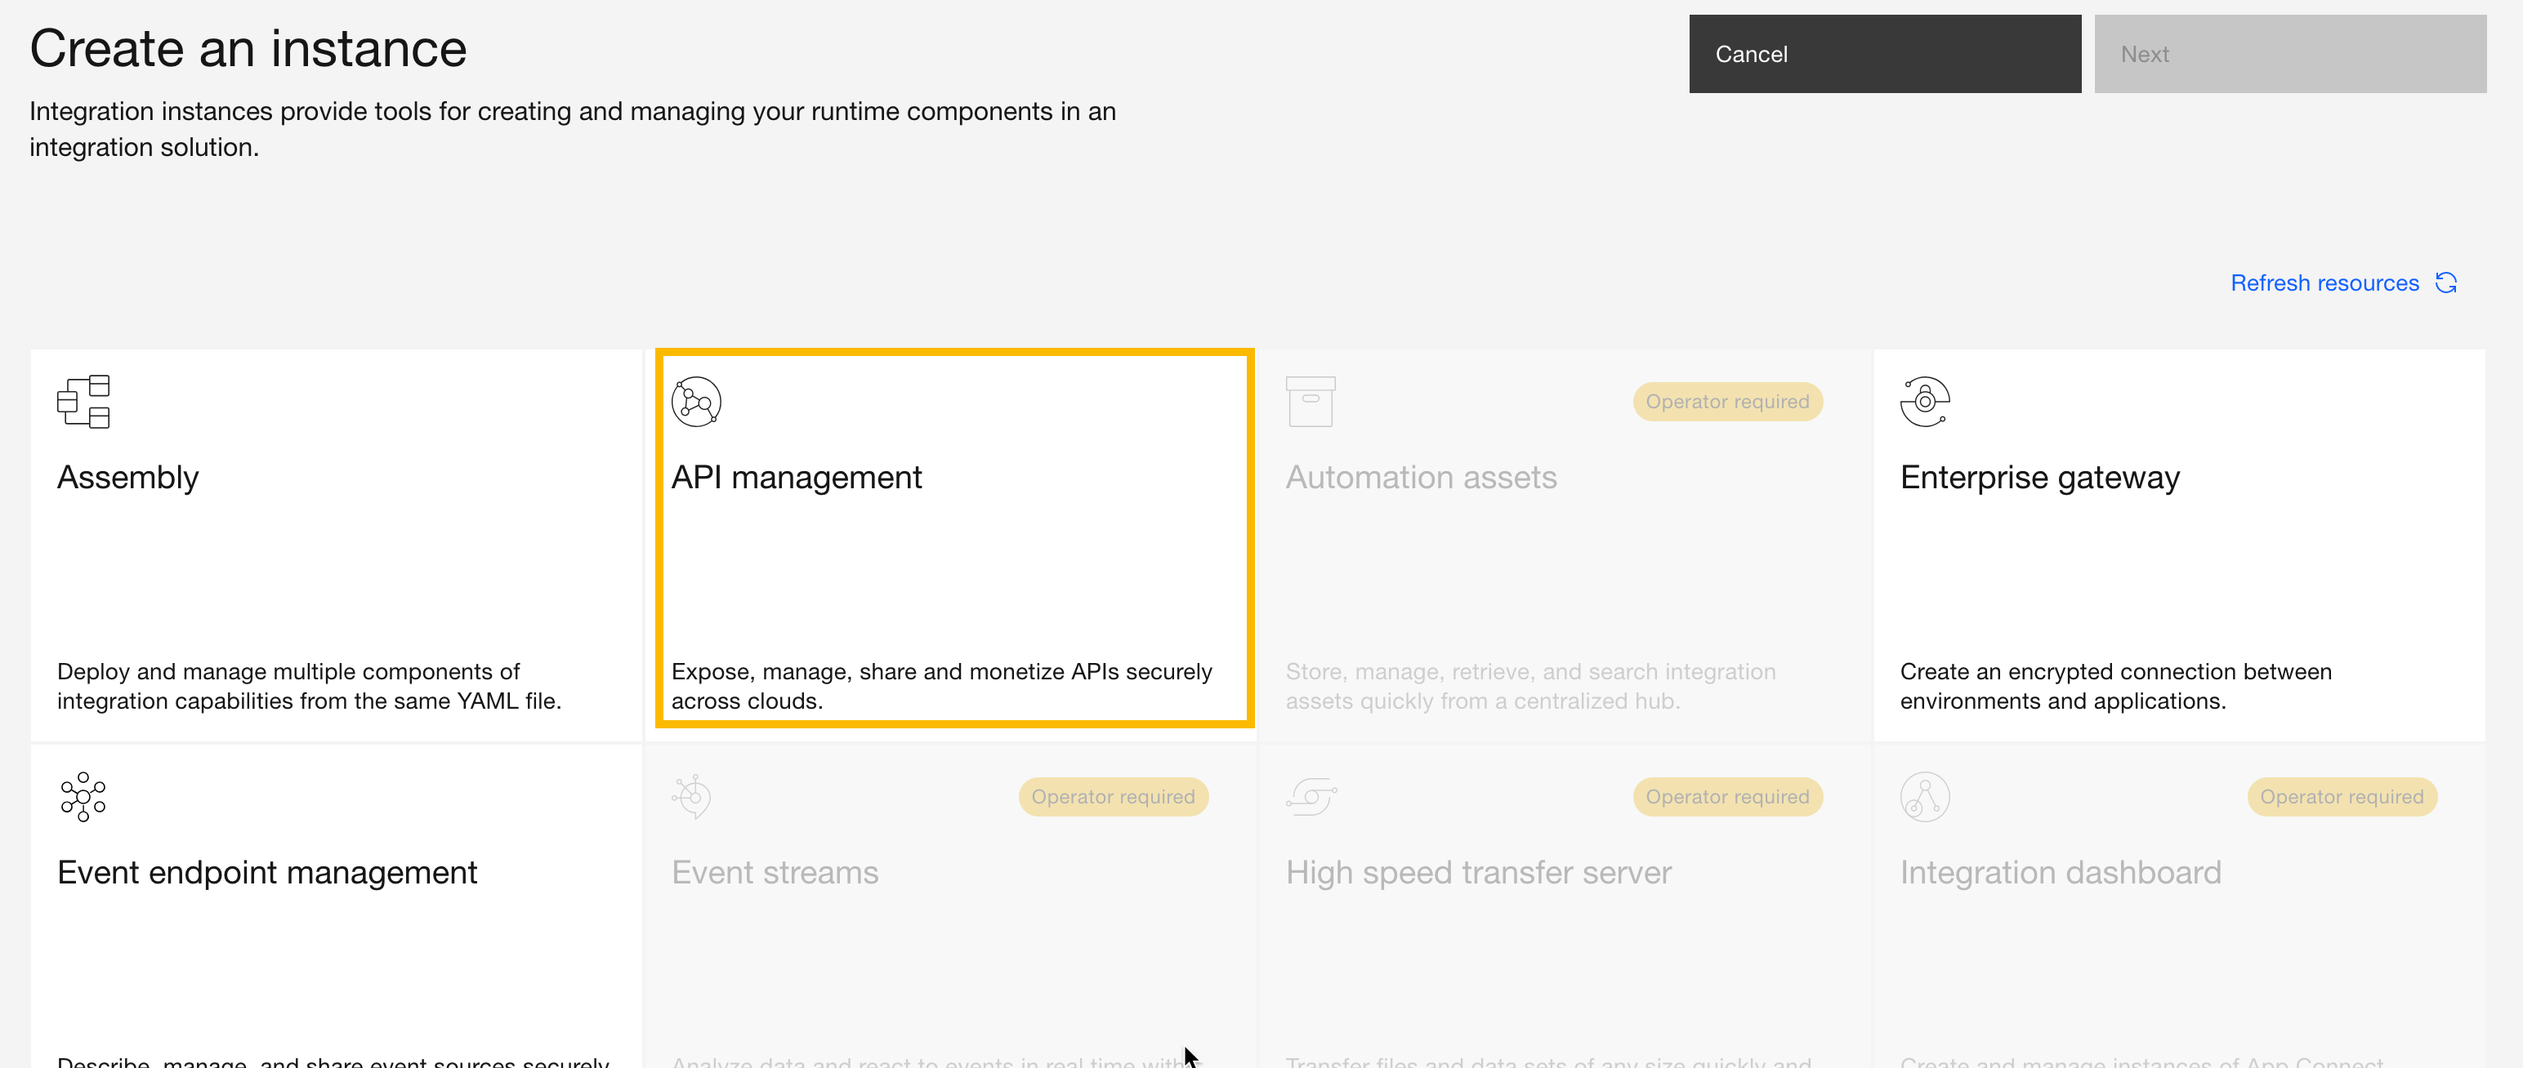
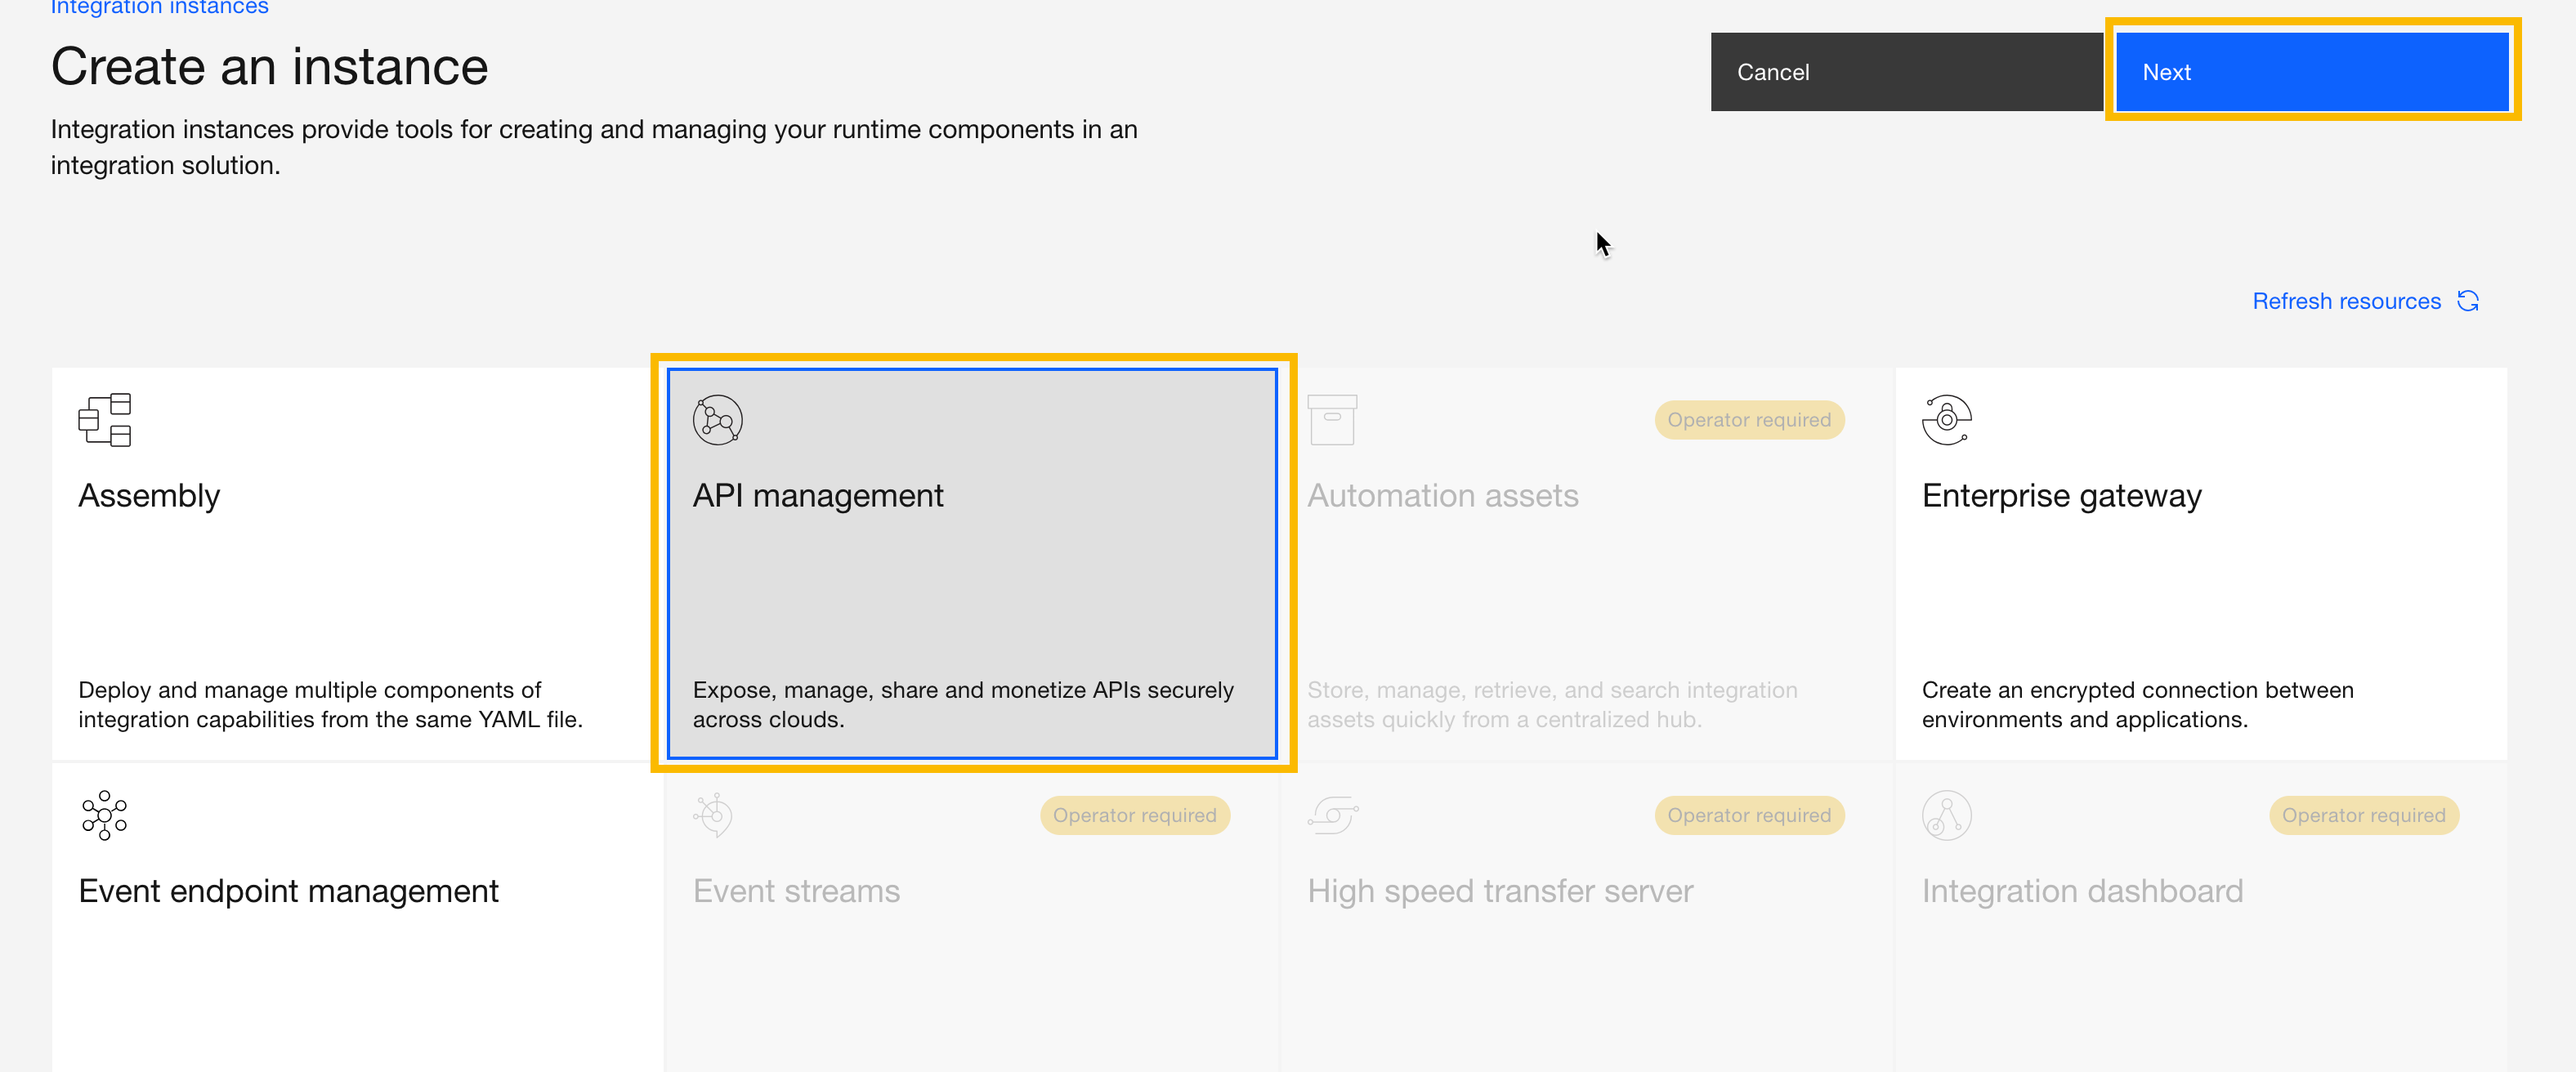
api updates

diff --git a/apiSetup.html b/apiSetup.html
@@ -257,8 +257,10 @@
                             <img src="img/platform-ui.png" alt="CP4I Platform UI Home page" width="80%"></br>
                         </br>
                         <li>Click on the Create Instance button. On the Create Instance page you will see the integration capabilities that can be configured. Greyed out capabilities is an indicator that the operators for these capabilities are not yet installed.</li>
-                        <li>Select API Management</li>
-                        <img src="img/create-instance.png" alt="Create Instance" width="80%">
+                        <li>Select API Management and Click Next</li>
+                        <img src="img/create-instance.png" alt="Create Instance" width="80%"></br></br>
+                        <li>Select Medium Single Replica and Click Next. This will install a Single instances of Management, Developer Portal, API Analytics and API Gateways</li>
+                        <img src="img/medium-single-replica.png" alt="Medium Single Replica" width="80%"></br></br>
                             </ol>
                             </p>
                             <ol>
